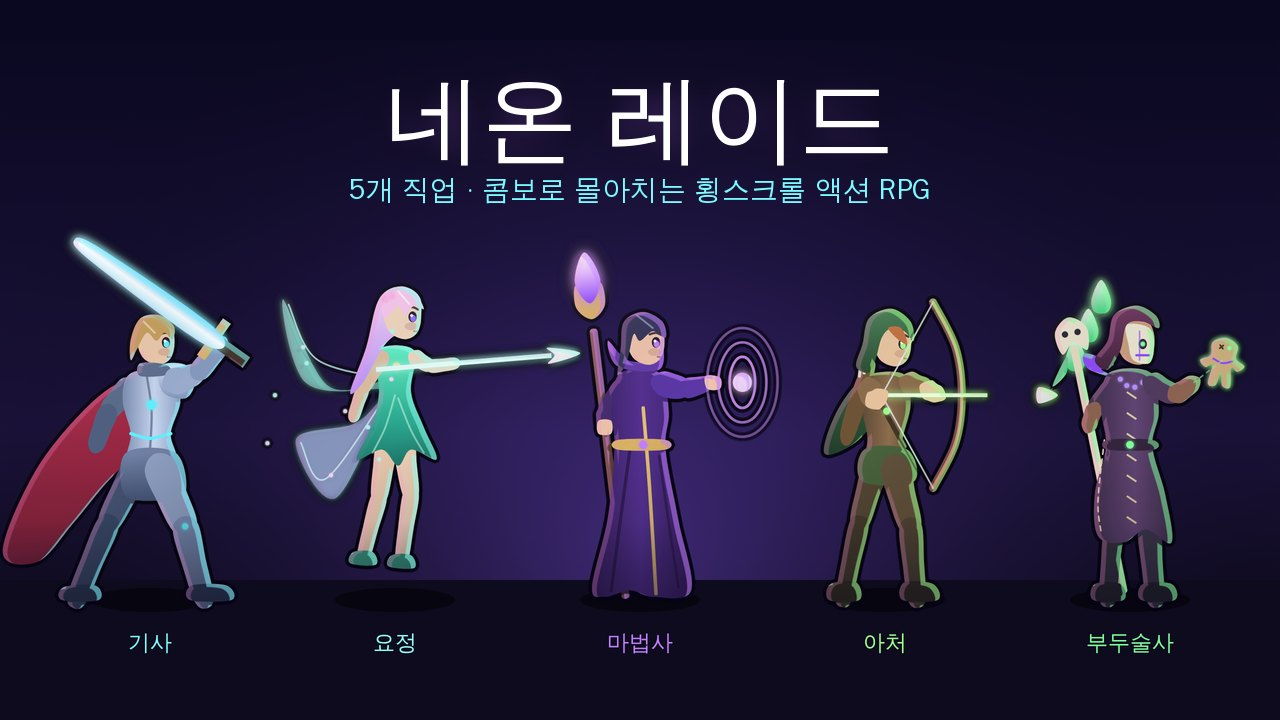
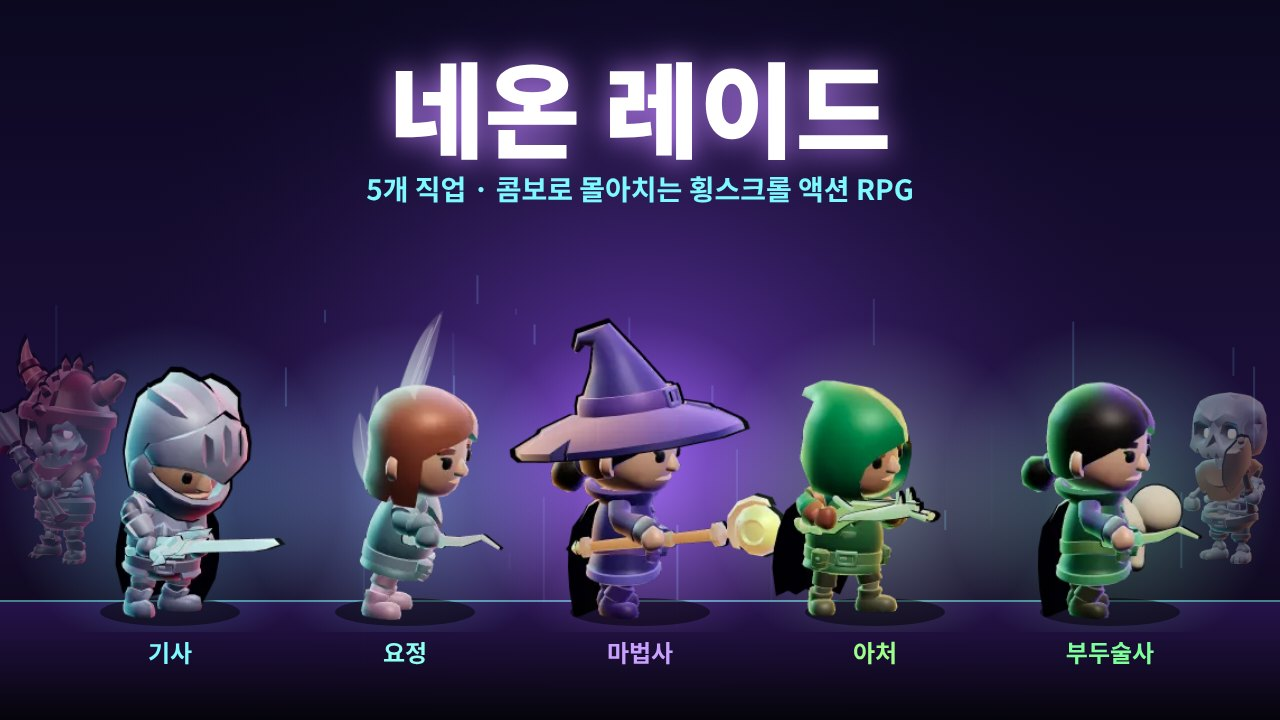
네온 레이드: 시작 전 포스터를 3D 캐릭터로 교체
Claude-Session: https://claude.ai/code/session_01MeQV9pgFsZyx95wCJJsgmV

diff --git a/playground/games/raid/body.html b/playground/games/raid/body.html
@@ -1,6 +1,6 @@
 <style>.nr-cab{position:relative;border-radius:16px;overflow:hidden;aspect-ratio:16/9;background:#07031a;border:2px solid #b46bff;box-shadow:0 0 22px #b46bff66;cursor:pointer}.nr-cab img{width:100%;height:100%;object-fit:cover;display:block;opacity:.92}.nr-cab .nr-go{position:absolute;left:50%;top:50%;transform:translate(-50%,-50%);font-size:20px;padding:14px 26px;border-radius:14px;border:0;background:linear-gradient(90deg,#7df9ff,#b46bff);color:#0a0618;font-weight:800;box-shadow:0 0 28px #b46bff88;cursor:pointer;white-space:nowrap}.nr-cab .nr-st{position:absolute;left:0;right:0;bottom:8px;text-align:center;color:#fff;font-size:13px;text-shadow:0 1px 3px #000;margin:0;padding:0 8px}@media (max-width:420px){.nr-cab .nr-go{font-size:18px;padding:12px 20px}.nr-cab .nr-st{font-size:12px}}</style>
 <h1>네온 레이드 <small class="tag">테스터 체험판</small></h1><p class="lead">밤마다 도시 지하에 열리는 <b>균열</b> 속으로 들어가 기계 괴물을 정리하는 <b>횡스크롤 액션 RPG</b>예요. 공격을 이어 눌러 콤보를 쌓고, 콤보 중간에 기술을 눌러 끊고 이어 가며 적을 띄워 몰아치세요. 맞힐 때마다 멈칫하는 손맛과 화면 흔들림이 있어요.</p>
-<div class="nr-cab" id="nr-cab"><img src="/img/raid-poster.jpg" alt="네온 레이드 게임 화면: 기사가 대검으로 기계 괴물을 베는 장면" width="1280" height="720"><button class="nr-go" type="button" id="nr-go">▶ 게임 시작</button><p class="nr-st">PC는 키보드, 휴대폰은 가로로 돌려서 화면 버튼으로</p></div>
+<div class="nr-cab" id="nr-cab"><img src="/img/raid-poster.jpg?v=2" alt="네온 레이드: 기사·요정·마법사·아처·부두술사 5개 직업" width="1280" height="720"><button class="nr-go" type="button" id="nr-go">▶ 게임 시작</button><p class="nr-st">PC는 키보드, 휴대폰은 가로로 돌려서 화면 버튼으로</p></div>
 <p id="nr-msg" class="muted"></p>
 <!--RANK-->
 <h2>규칙</h2><ul class="list"><li><b>직업 5개</b> 중 하나를 골라요. 기사(묵직한 대검), 요정(날개로 떠서 빛 창 연타), 마법사(불·얼음·번개 범위 마법), 아처(멀리서 꿰뚫는 화살), 부두술사(저주 인형으로 약하게 만들고 영혼 소환). 직업마다 기본 콤보, 기술 4개, 필살기 1개가 달라요.</li><li>던전은 <b>방 4개 + 보스</b>예요. 방의 적을 모두 정리하면 오른쪽에 GO 표시가 뜨고 다음 방으로 가요. 방마다 걸린 시간·맞은 횟수·콤보로 S~C 평가를 받아요.</li><li>선로 터널에는 빨간 줄 뒤에 유령 열차가 지나가고, 변전실 바닥은 노랗게 깜빡인 뒤 전기가 흘러요. 화물 창고의 상자를 부수면 회복 구슬과 재료가 나와요.</li><li>보스 <b>궤도 포식자 마그나 레일</b>은 버려진 열차가 엉켜 만든 기계 지네예요. 빨간 줄을 따라 돌진한 뒤 벽에 부딪혀 멈추면 몸통의 <b>코어</b>가 드러나고, 그때 더 큰 피해를 줘요. 체력이 절반 아래로 떨어지면 레이저 기둥을 쏘기 시작해요.</li><li>적을 때리면 <b>필살기 게이지</b>가 차요. 가득 차면 화면 전체를 흔드는 필살기를 쓸 수 있어요.</li><li>점수 = 방 평가 점수 + 처치 + 최대 콤보 + 클리어 보너스(빨리 깰수록 큼). 오늘의 최고 점수로 순위를 겨뤄요.</li></ul>
